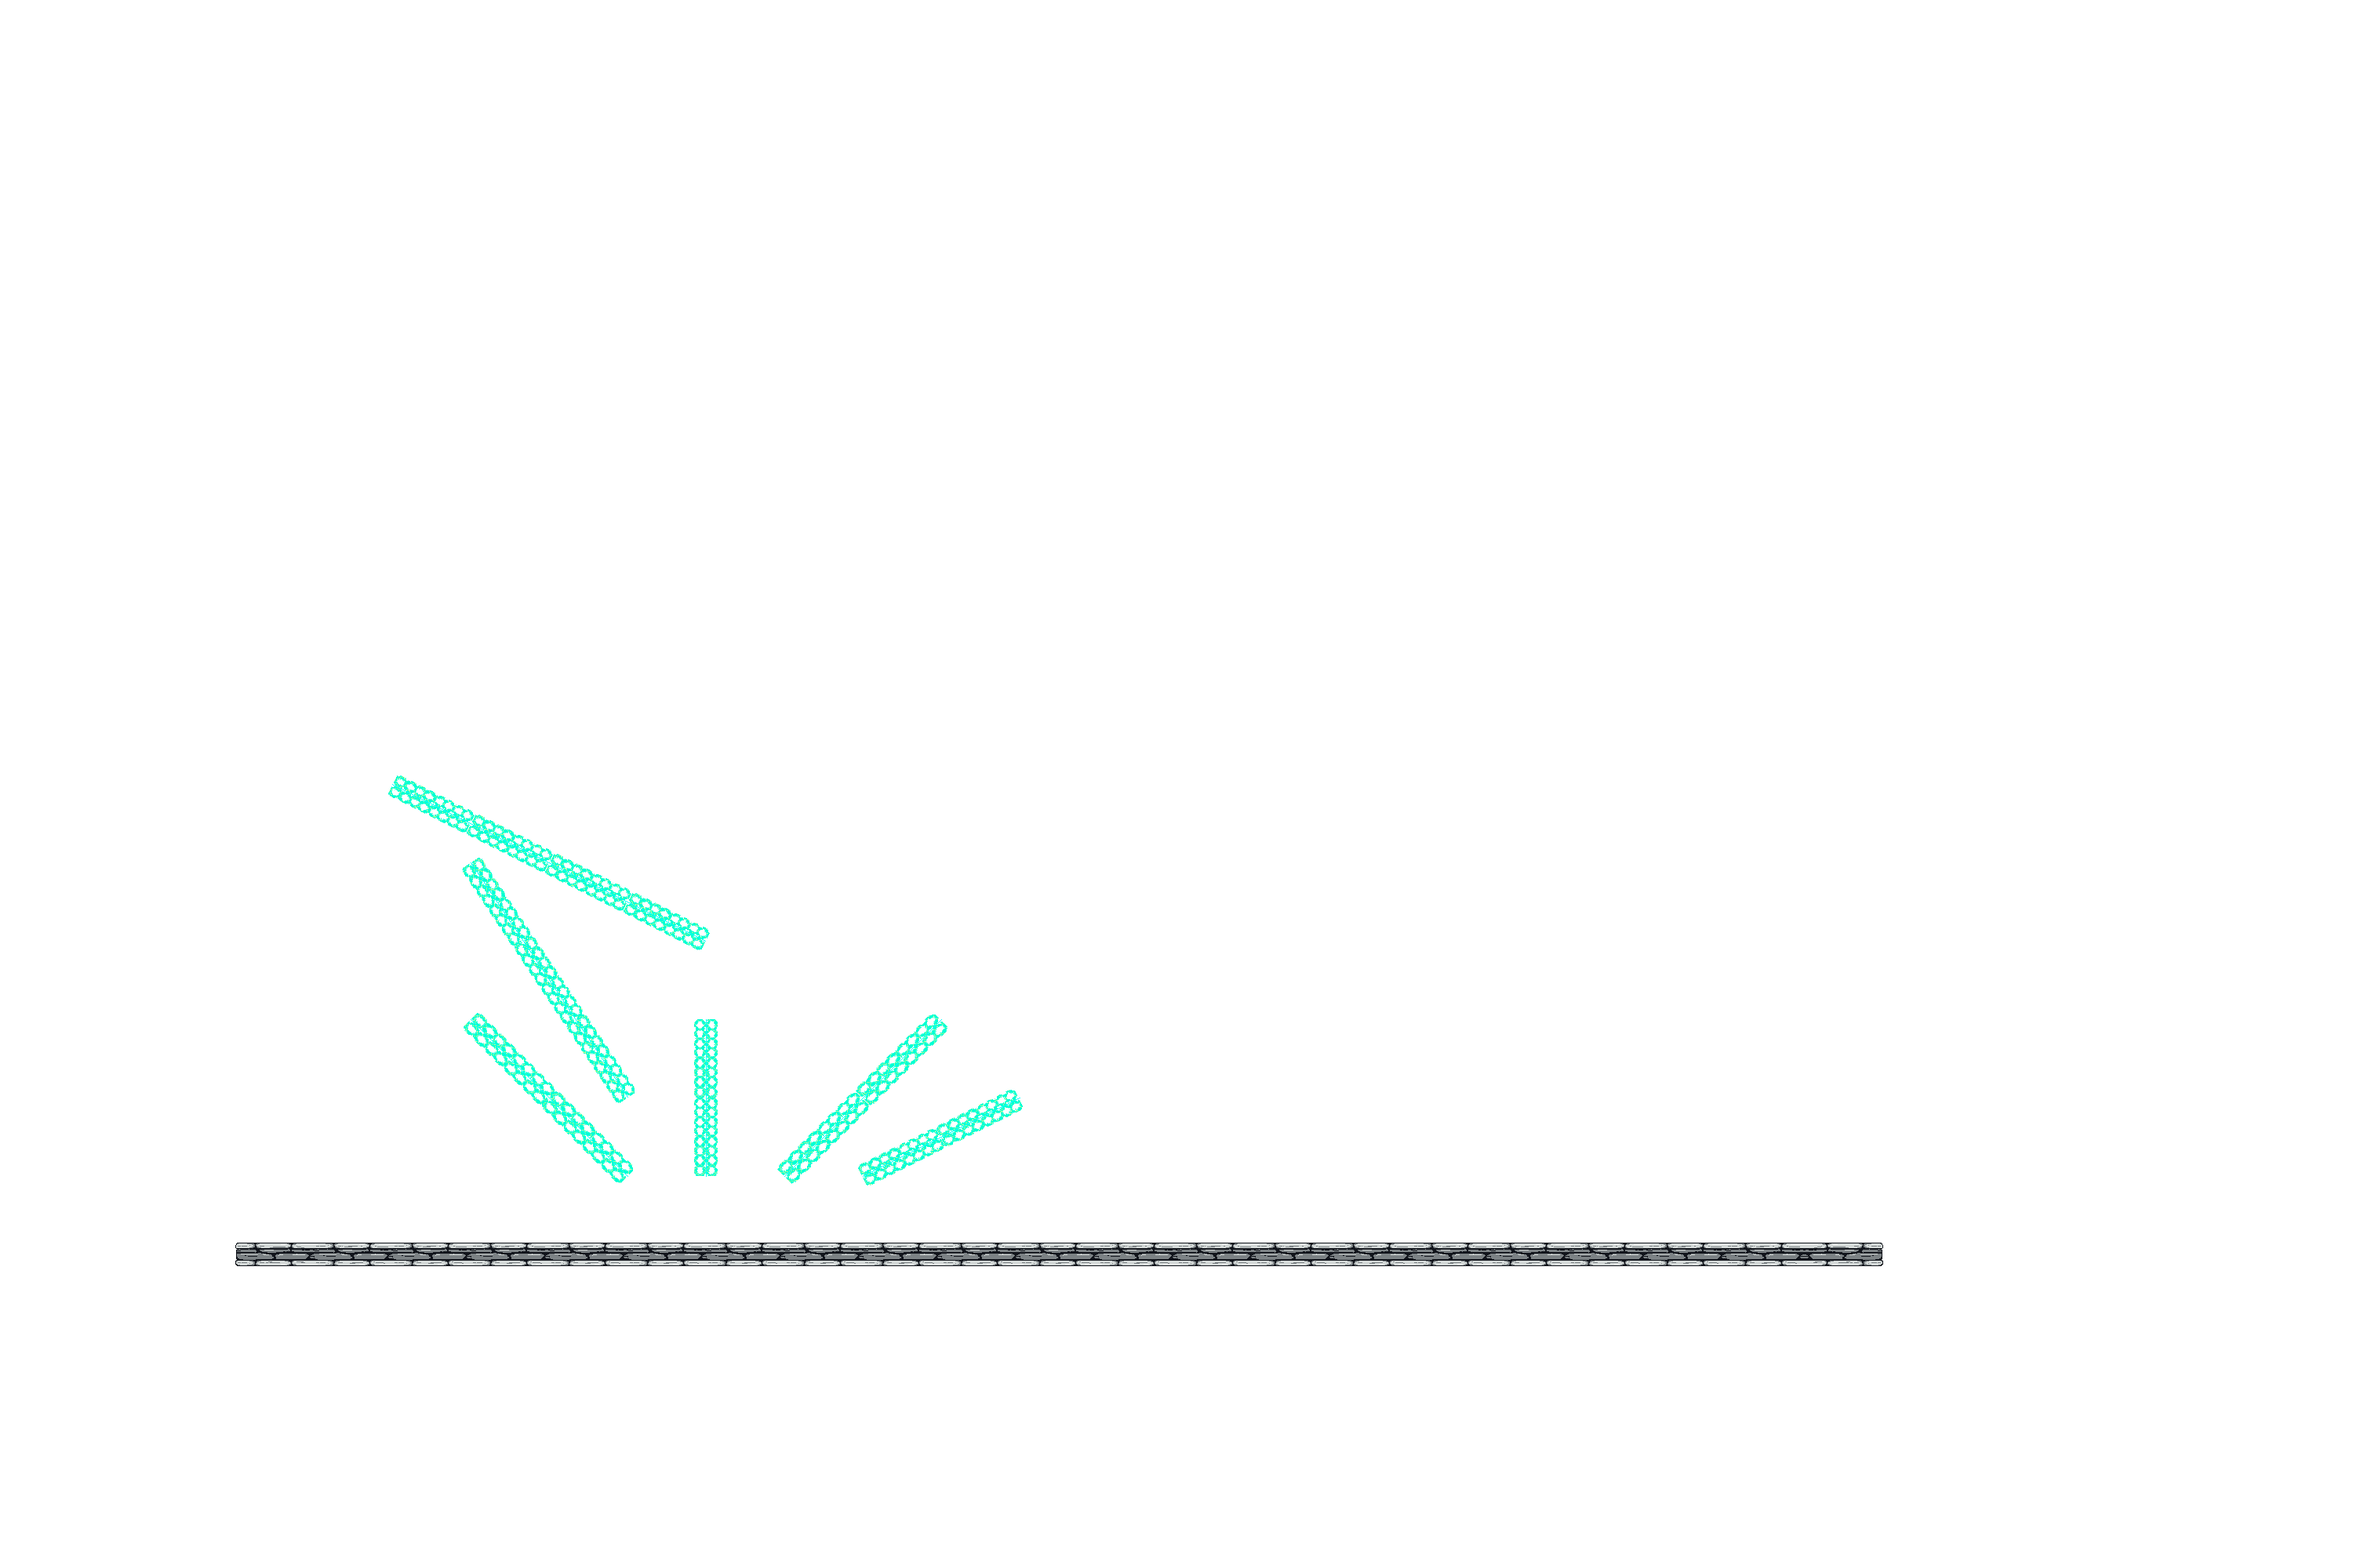
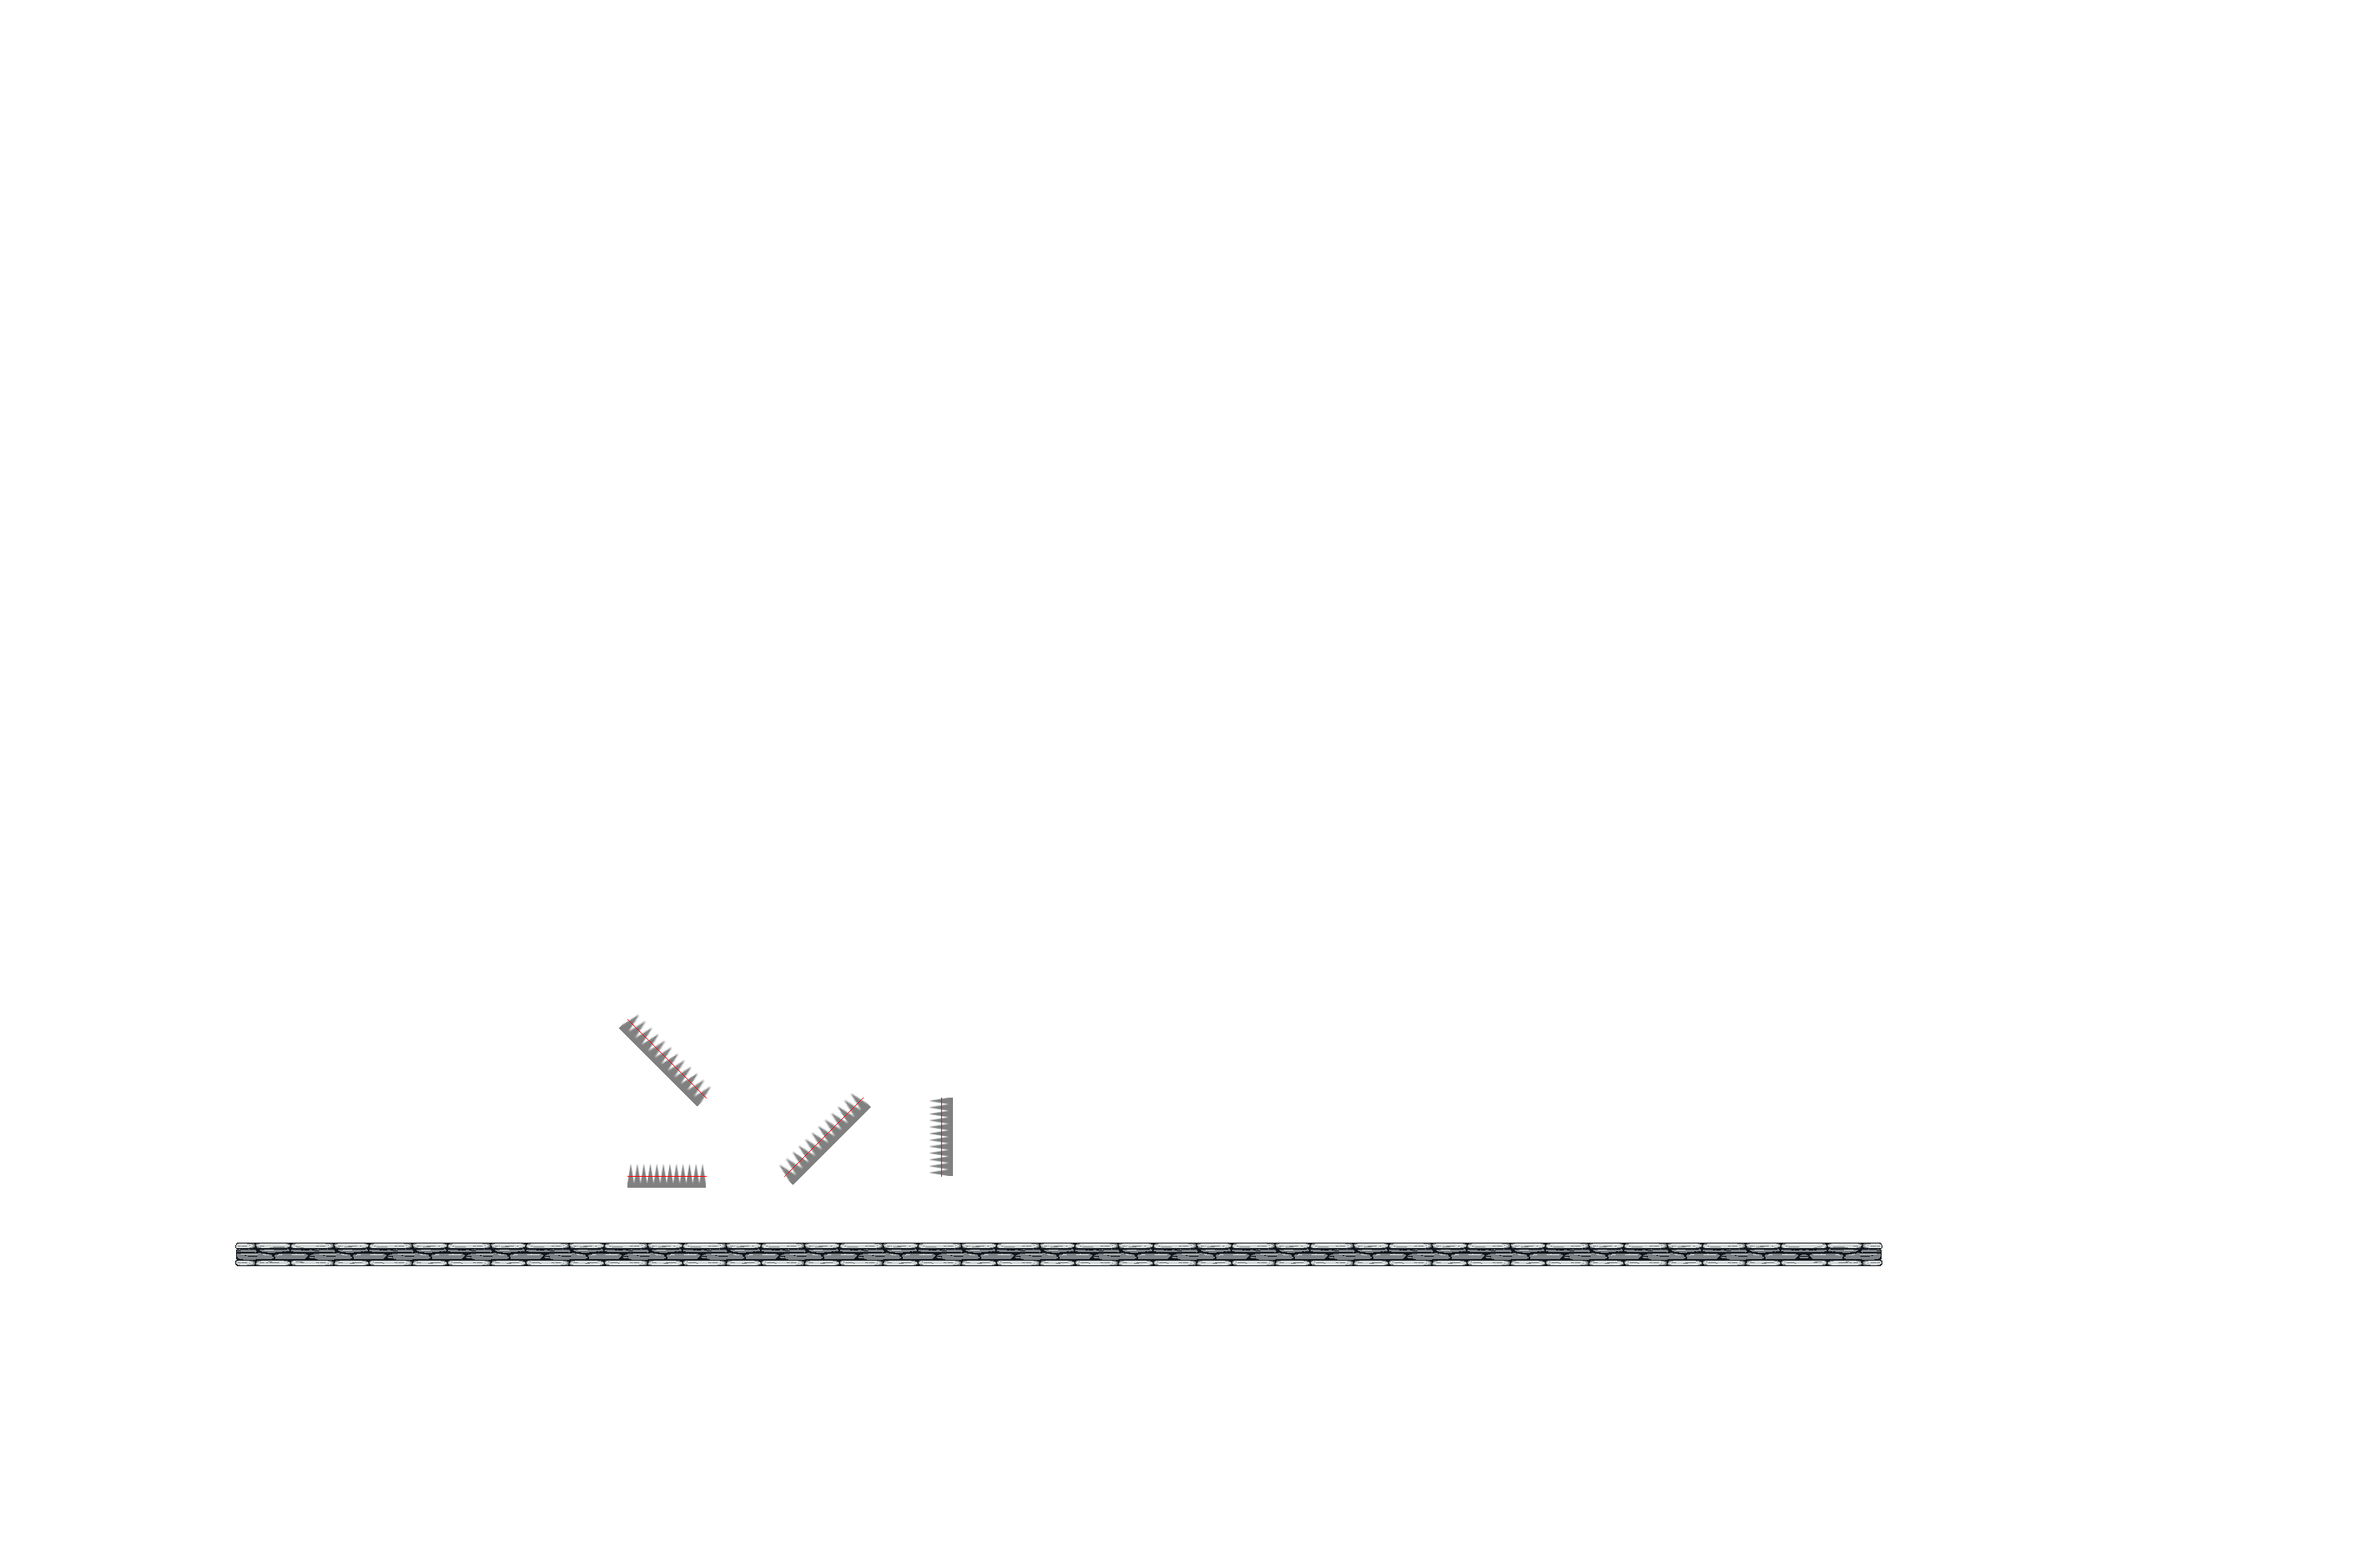
Added spike wall in createImage

diff --git a/src/indigo/GameState/DesignState.java b/src/indigo/GameState/DesignState.java
@@ -1709,9 +1709,6 @@ public class DesignState extends GameState
 
 					scale = (land.length) / (centerTiles * 100 + 200);
 
-					//					if(land.horizontal)
-					//					{
-					// Draw leftmost piece
 					g.translate(x1, y1);
 					g.rotate(angle, 0, Land.THICKNESS / 2);
 					g.drawImage(ContentManager.getImage(ContentManager.STONE_TILE_LEFT),
@@ -1741,49 +1738,6 @@ public class DesignState extends GameState
 					g.rotate(-angle, 0, Land.THICKNESS / 2);
 					g.translate(-(x1 + 100 * (centerTiles + 1) * scale * Math.cos(angle)),
 							-(y1 + 100 * (centerTiles + 1) * scale * Math.sin(angle)));
-					// }
-					//					else if(!land.horizontal)
-					//					{
-					//						int heightOffset = -5;
-					//						y1 += heightOffset;
-					//						if(Math.abs(land.slope) > 999)
-					//						{
-					//							heightOffset = 0;
-					//						}
-					//						int centerOffset = (y1 > y2)? -15 : 15;
-					//						// Draw top-most piece
-					//						g.translate(x1 + centerOffset, y1);
-					//						g.rotate(angle);
-					//						g.drawImage(ContentManager.getImage(ContentManager.STONE_TILE_LEFT), 0, 0, (int)(100 * scale),
-					//								30, null);
-					//						g.rotate(-angle);
-					//						g.translate(-(x1 + centerOffset), -y1);
-					//
-					//						// Draw center pieces, if any
-					//						for(int i = 1; i <= centerTiles; i++)
-					//						{
-					//							g.translate(x1 + centerOffset + 100 * i * scale * Math.cos(angle), y1 + 100 * i * scale
-					//									* Math.sin(angle));
-					//							g.rotate(angle);
-					//							g.drawImage(ContentManager.getImage(ContentManager.STONE_TILE_CENTER), 0, 0,
-					//									(int)(100 * scale), 30, null);
-					//							g.rotate(-angle);
-					//							g.translate(-(x1 + centerOffset + 100 * i * scale * Math.cos(angle)), -(y1 + 100 * i
-					//									* scale * Math.sin(angle)));
-					//						}
-					//
-					//						// Draw bottom-most piece
-					//						g.translate(x1 + centerOffset + 100 * (centerTiles + 1) * scale * Math.cos(angle), y1 + 100
-					//								* (centerTiles + 1) * scale * Math.sin(angle));
-					//						g.rotate(angle);
-					//						g.drawImage(ContentManager.getImage(ContentManager.STONE_TILE_RIGHT), 0, 0, (int)(100 * scale),
-					//								30, null);
-					//						g.rotate(-angle);
-					//						g.translate(-(x1 + centerOffset + 100 * (centerTiles + 1) * scale * Math.cos(angle)),
-					//								-(y1 + 100 * (centerTiles + 1) * scale * Math.sin(angle)));
-					//
-					//						y1 -= heightOffset;
-					//					}
 				}
 
 				// TODO Temporary
@@ -1874,6 +1828,45 @@ public class DesignState extends GameState
 						g.translate(x1 + 100 * i * scale * Math.cos(angle), y1 + 100 * i * scale * Math.sin(angle));
 						g.rotate(angle, 0, Land.THICKNESS / 2);
 						g.drawImage(ContentManager.getImage(ContentManager.FORCE_FIELD),
+								(int)((-Land.THICKNESS / 2) * Math.sin(angle)),
+								(int)((-Land.THICKNESS / 2) * Math.cos(angle)), (int)(100 * (scale)), 30, null);
+						g.rotate(-angle, 0, Land.THICKNESS / 2);
+						g.translate(-(x1 + 100 * i * scale * Math.cos(angle)),
+								-(y1 + 100 * i * scale * Math.sin(angle)));
+					}
+					// g.drawLine(x1, y1, x2, y2);
+				}
+			}
+			// Draw spike pits
+			for(LandData land : landscape)
+			{
+				if(land.type.equals("Spike Wall"))
+				{
+					int x1 = (int)land.x1;
+					int y1 = (int)land.y1;
+					int x2 = (int)land.x2;
+					int y2 = (int)land.y2;
+					double angle = Math.atan(land.slope);
+					double scale = 0;
+					if(x2 < x1)
+					{
+						int temp = 0;
+						temp = x2;
+						x2 = x1;
+						x1 = temp;
+						temp = y2;
+						y2 = y1;
+						y1 = temp;
+					}
+					int tiles = 0;
+					tiles = (int)((land.length) / 100);
+					tiles = Math.max(1, tiles); // Ensures at least one tile
+					scale = (land.length) / (tiles * 100);
+					for(int i = 0; i < tiles; i++)
+					{
+						g.translate(x1 + 100 * i * scale * Math.cos(angle), y1 + 100 * i * scale * Math.sin(angle));
+						g.rotate(angle, 0, Land.THICKNESS / 2);
+						g.drawImage(ContentManager.getImage(ContentManager.SPIKE_WALL),
 								(int)((-Land.THICKNESS / 2) * Math.sin(angle)),
 								(int)((-Land.THICKNESS / 2) * Math.cos(angle)), (int)(100 * (scale)), 30, null);
 						g.rotate(-angle, 0, Land.THICKNESS / 2);

diff --git a/src/indigo/Manager/ContentManager.java b/src/indigo/Manager/ContentManager.java
@@ -35,6 +35,7 @@ public class ContentManager
 	// Elements
 	public static ImageData FORCE_FIELD = new ImageData("/images/elements/force_field.png", 100, 30);
 	public static ImageData PLATFORM = new ImageData("/images/elements/platform.png", 290, 70);
+	public static ImageData SPIKE_WALL = new ImageData("/images/elements/spike_wall.png", 100, 30);
 	public static ImageData STONE_TILE_LEFT = new ImageData("/images/elements/stone_tile_left.png", 100, 30);
 	public static ImageData STONE_TILE_CENTER = new ImageData("/images/elements/stone_tile_center.png", 100, 30);
 	public static ImageData STONE_TILE_RIGHT = new ImageData("/images/elements/stone_tile_right.png", 100, 30);
